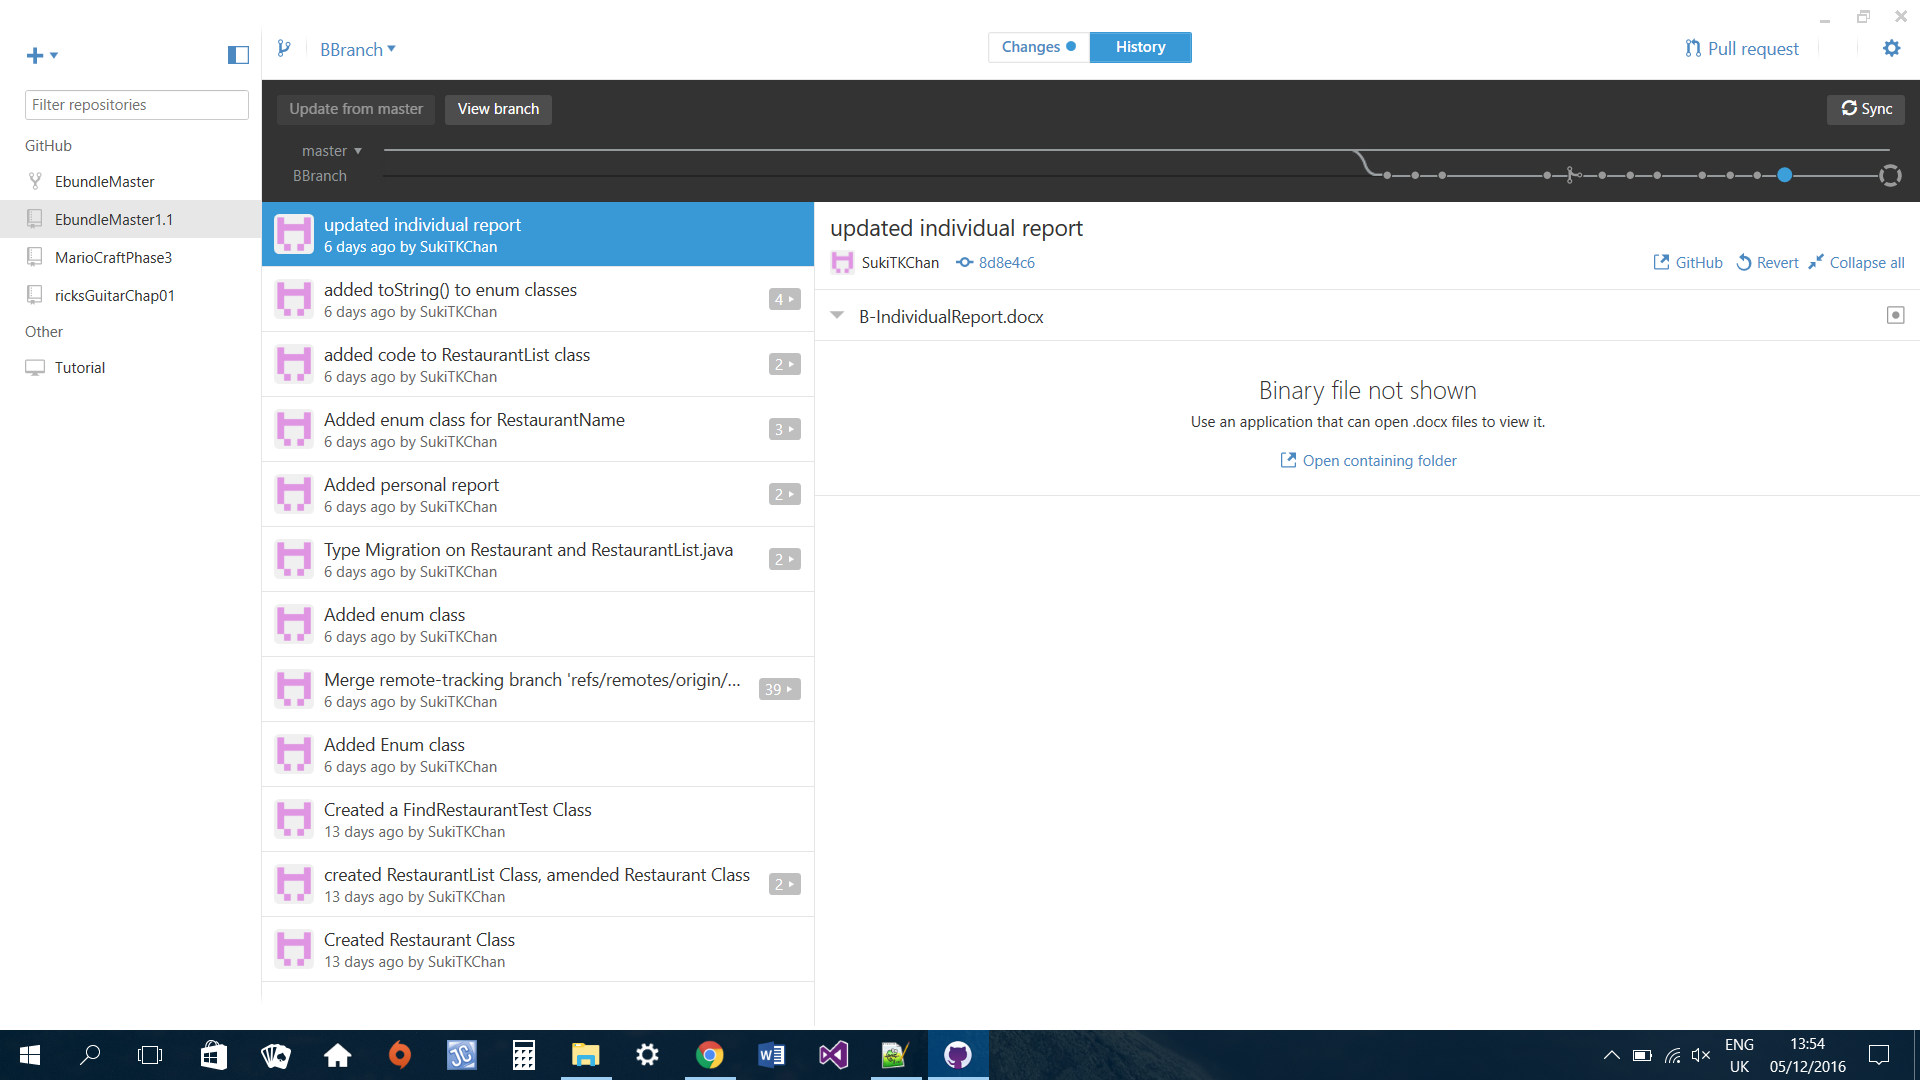
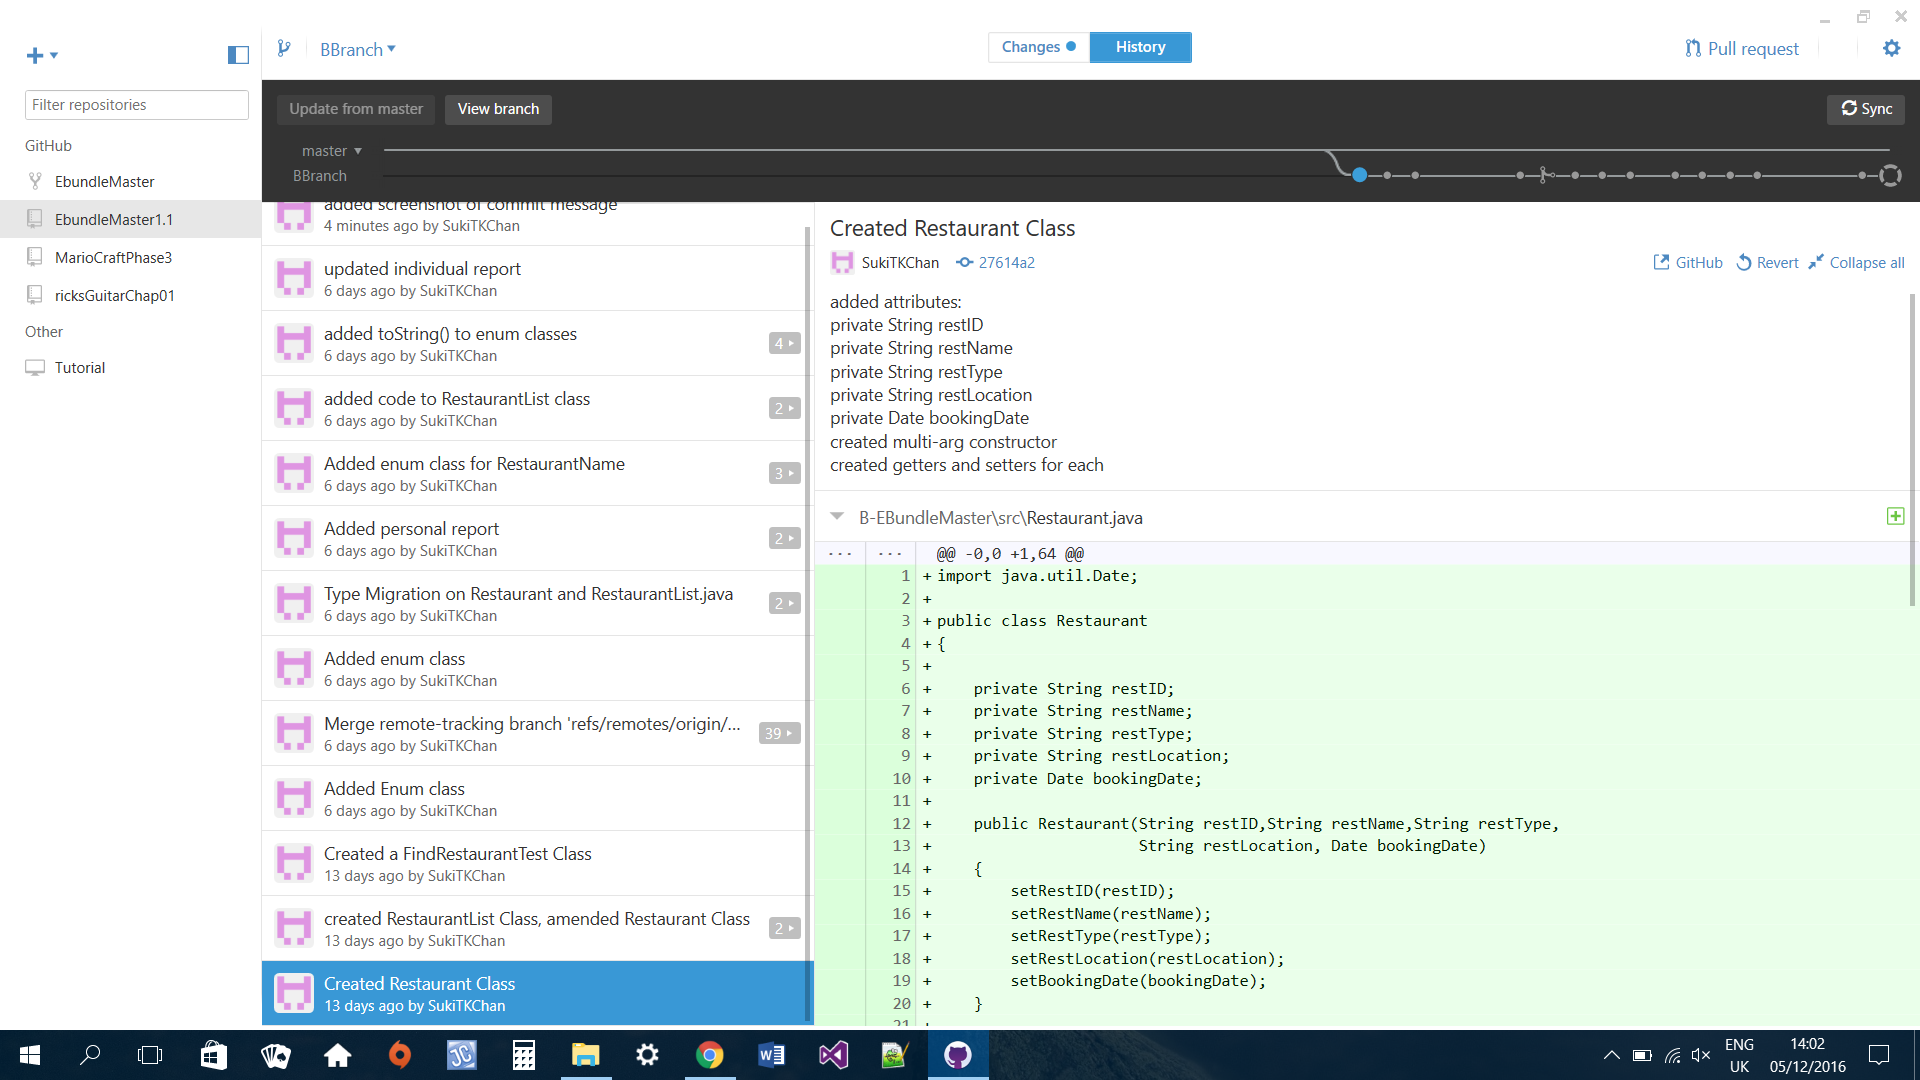
re-upload commit message screenshot
added report in HTML format to keep it consistent

diff --git a/BBranchReport.html b/BBranchReport.html
@@ -1,0 +1,58 @@
+<!DOCTYPE html>
+<html lang='en'>
+  <head>
+    <title>Aoife's Personal Report</title>
+    <meta charset='utf-8'>
+   
+  </head>
+  <style type="text/css">
+      h1 {
+        text-align: center;
+      }
+      
+  
+  </style>
+  <body>
+  
+  <h1>Suki's Report</h1>
+      <h2 style="text-align: center; ">Suki Tsz Ki Chan<br>
+          T00183011<br>
+          Computing with Games Development<br></h2>
+          
+      <h2>Project Title</h2>
+        <p>Ebundle Master</p>
+      
+      <h2>Vision Statement</h2>
+        <p>An e-ticketing system that allows customers to purchase concert and 
+            performance tickets, select date and location of concert, purchase 
+            ticket.In addtion the system offers bundles to customers which 
+            allows them to search for transport such as bus and train, hotel 
+            room and restaurant.
+        </p>
+      
+      <h2>Link to individual github repository </h2>
+        <p>My individual branch was the BBranch located at</p>
+        <a href="https://github.com/AoifeNicAntSaoir/EbundleMaster1.1/tree/BBranch">https://github.com/AoifeNicAntSaoir/EbundleMaster1.1/tree/BBranch</a>
+      
+      <h2>Link to group github repository</h2>
+        <p>The master branch is located at</p>
+        <a href="https://github.com/AoifeNicAntSaoir/EbundleMaster1.1">https://github.com/AoifeNicAntSaoir/EbundleMaster1.1</a>
+      
+      <h2>Snapshot of your own detailed code commit comments </h2>
+        <img src="BBranchCommitScreenshot.png" alt="commit details" width="800">
+                      
+      <h2>Snapshot of merged commits</h2>
+      
+      <h2>Evaluation</h2>
+          <ol>
+              <li> Agile Methodology to creating this project</li>
+              <li> Good communication with team members</li>
+              
+          </ol>
+          
+      
+
+  
+
+  </body>
+</html>
